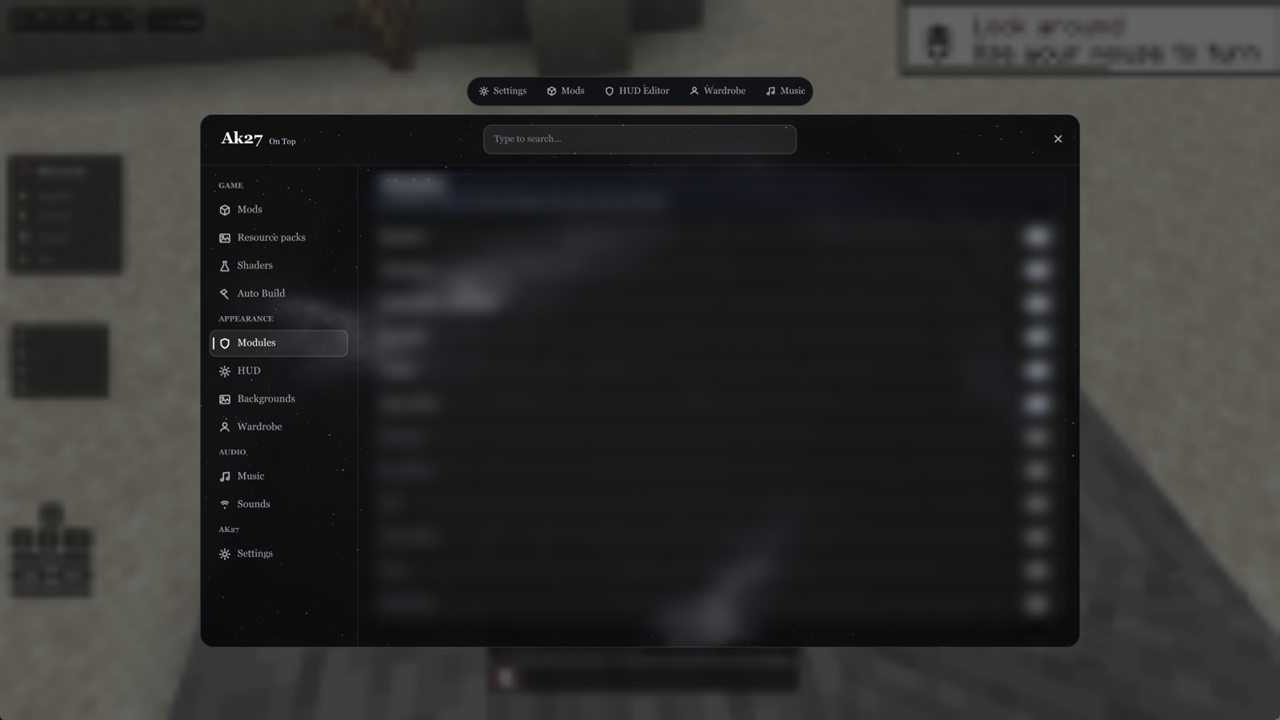
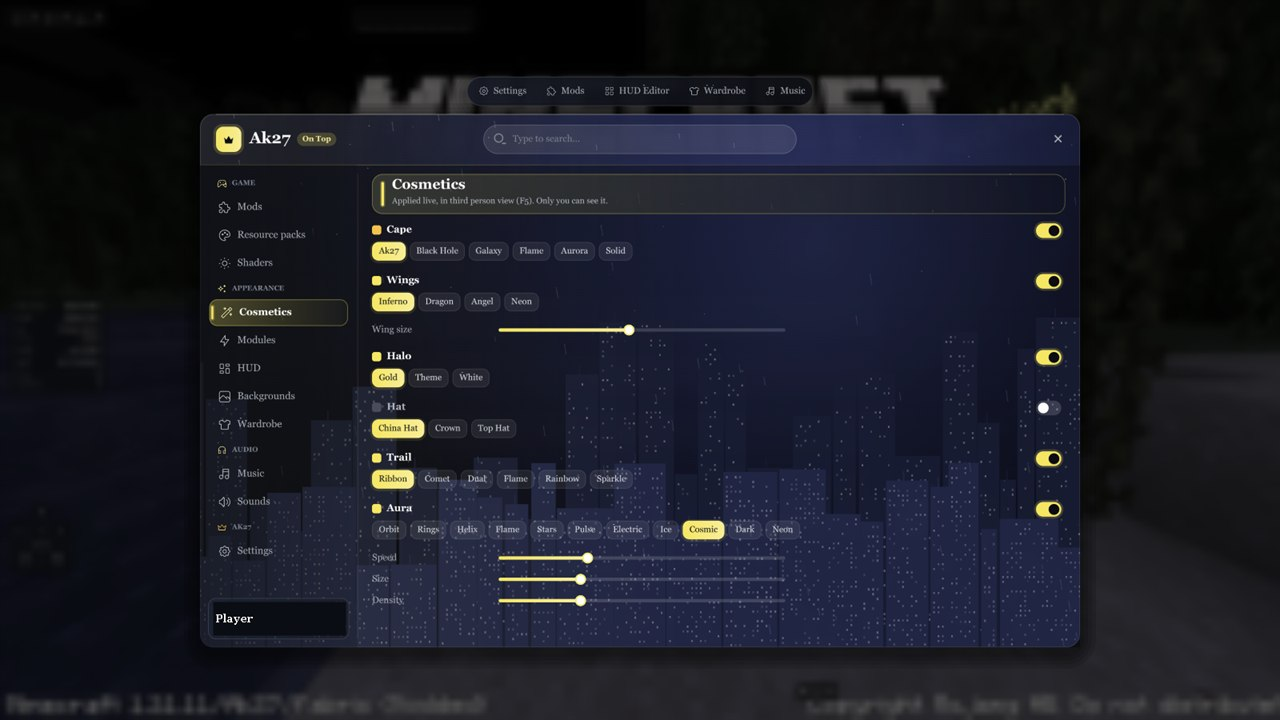
Gallery: new 2.0.0 screenshots (in-game menu, Electric aura, launcher pages)

diff --git a/index.html b/index.html
@@ -7,7 +7,7 @@
 <meta name="description" content="Ak27 is a Minecraft launcher for Windows: one file, every version from 1.8.9 to 26.3, a built-in HUD engine, 3D cosmetics and custom skies.">
 <meta property="og:title" content="Ak27 — On Top">
 <meta property="og:description" content="One file. Every version from 1.8.9 to 26.3. HUD, 3D cosmetics and skies, without a single mod.">
-<meta property="og:image" content="img/wings.jpg">
+<meta property="og:image" content="img/aura.jpg">
 <meta name="theme-color" content="#08090c">
 <link rel="icon" href="img/logo.png">
 <link rel="preconnect" href="https://fonts.googleapis.com">
@@ -47,8 +47,8 @@
       <p class="fine"><span data-size>Ak27.exe · 9.8 MB</span> · Windows 10 and 11 · Free</p>
     </div>
     <div class="hero-shot reveal">
-      <div class="frame tilt"><img src="img/modules.jpg" alt="The Ak27 in-game menu, Modules page, with color and opacity settings for the cape" width="1280" height="720"></div>
-      <div class="frame float"><img src="img/wings.jpg" alt="A player in third person with phoenix wings and a golden halo under a night sky" width="1280" height="720"></div>
+      <div class="frame tilt"><img src="img/menu.jpg" alt="The redesigned Ak27 in-game menu with custom icons on every tab and a night city background" width="1280" height="720"></div>
+      <div class="frame float"><img src="img/aura.jpg" alt="A player in third person with the Electric aura, phoenix wings and a golden halo" width="1280" height="720"></div>
     </div>
   </section>
 
@@ -132,11 +132,12 @@
       <p>Real screenshots, no edits.</p>
     </div>
     <div class="gallery">
-      <figure class="reveal wide"><img src="img/phoenix.jpg" alt="Huge phoenix wings and a halo seen from behind on 1.16.5" loading="lazy" width="1280" height="720"><figcaption>Phoenix wings · 1.16.5</figcaption></figure>
-      <figure class="reveal"><img src="img/front.jpg" alt="Front view of a player with a halo and wings in a forest on 1.12.2" loading="lazy" width="1280" height="720"><figcaption>Halo and wings · 1.12.2</figcaption></figure>
-      <figure class="reveal"><img src="img/modules.jpg" alt="Ak27 menu showing modules with three buttons each" loading="lazy" width="1280" height="720"><figcaption>Modules and their settings</figcaption></figure>
-      <figure class="reveal"><img src="img/wings.jpg" alt="Wings, halo and HUD under a starry sky on 1.8.9" loading="lazy" width="1280" height="720"><figcaption>Night sky · 1.8.9</figcaption></figure>
-      <figure class="reveal"><img src="img/menu.jpg" alt="The Ak27 menu over the game" loading="lazy" width="1280" height="720"><figcaption>The Ak27 menu</figcaption></figure>
+      <figure class="reveal wide"><img src="img/menu.jpg" alt="The redesigned in-game menu with custom icons and a night city background" loading="lazy" width="1280" height="720"><figcaption>New in-game menu · custom icons and backgrounds</figcaption></figure>
+      <figure class="reveal"><img src="img/aura.jpg" alt="The Electric aura with lightning around a player" loading="lazy" width="1280" height="720"><figcaption>Electric aura</figcaption></figure>
+      <figure class="reveal"><img src="img/phoenix.jpg" alt="Huge phoenix wings and a halo seen from behind" loading="lazy" width="1280" height="720"><figcaption>Phoenix wings and halo</figcaption></figure>
+      <figure class="reveal"><img src="img/launcher-bg.jpg" alt="Launcher backgrounds page with settings, playlist and live background categories" loading="lazy" width="1280" height="720"><figcaption>26 live backgrounds</figcaption></figure>
+      <figure class="reveal"><img src="img/launcher-cosmetics.jpg" alt="Launcher cosmetics page with a 3D preview of the player" loading="lazy" width="1280" height="720"><figcaption>Cosmetics with 3D preview</figcaption></figure>
+      <figure class="reveal"><img src="img/modules.jpg" alt="In-game Modules page with a switch and settings for every module" loading="lazy" width="1280" height="720"><figcaption>Modules, one click each</figcaption></figure>
     </div>
   </section>
 
